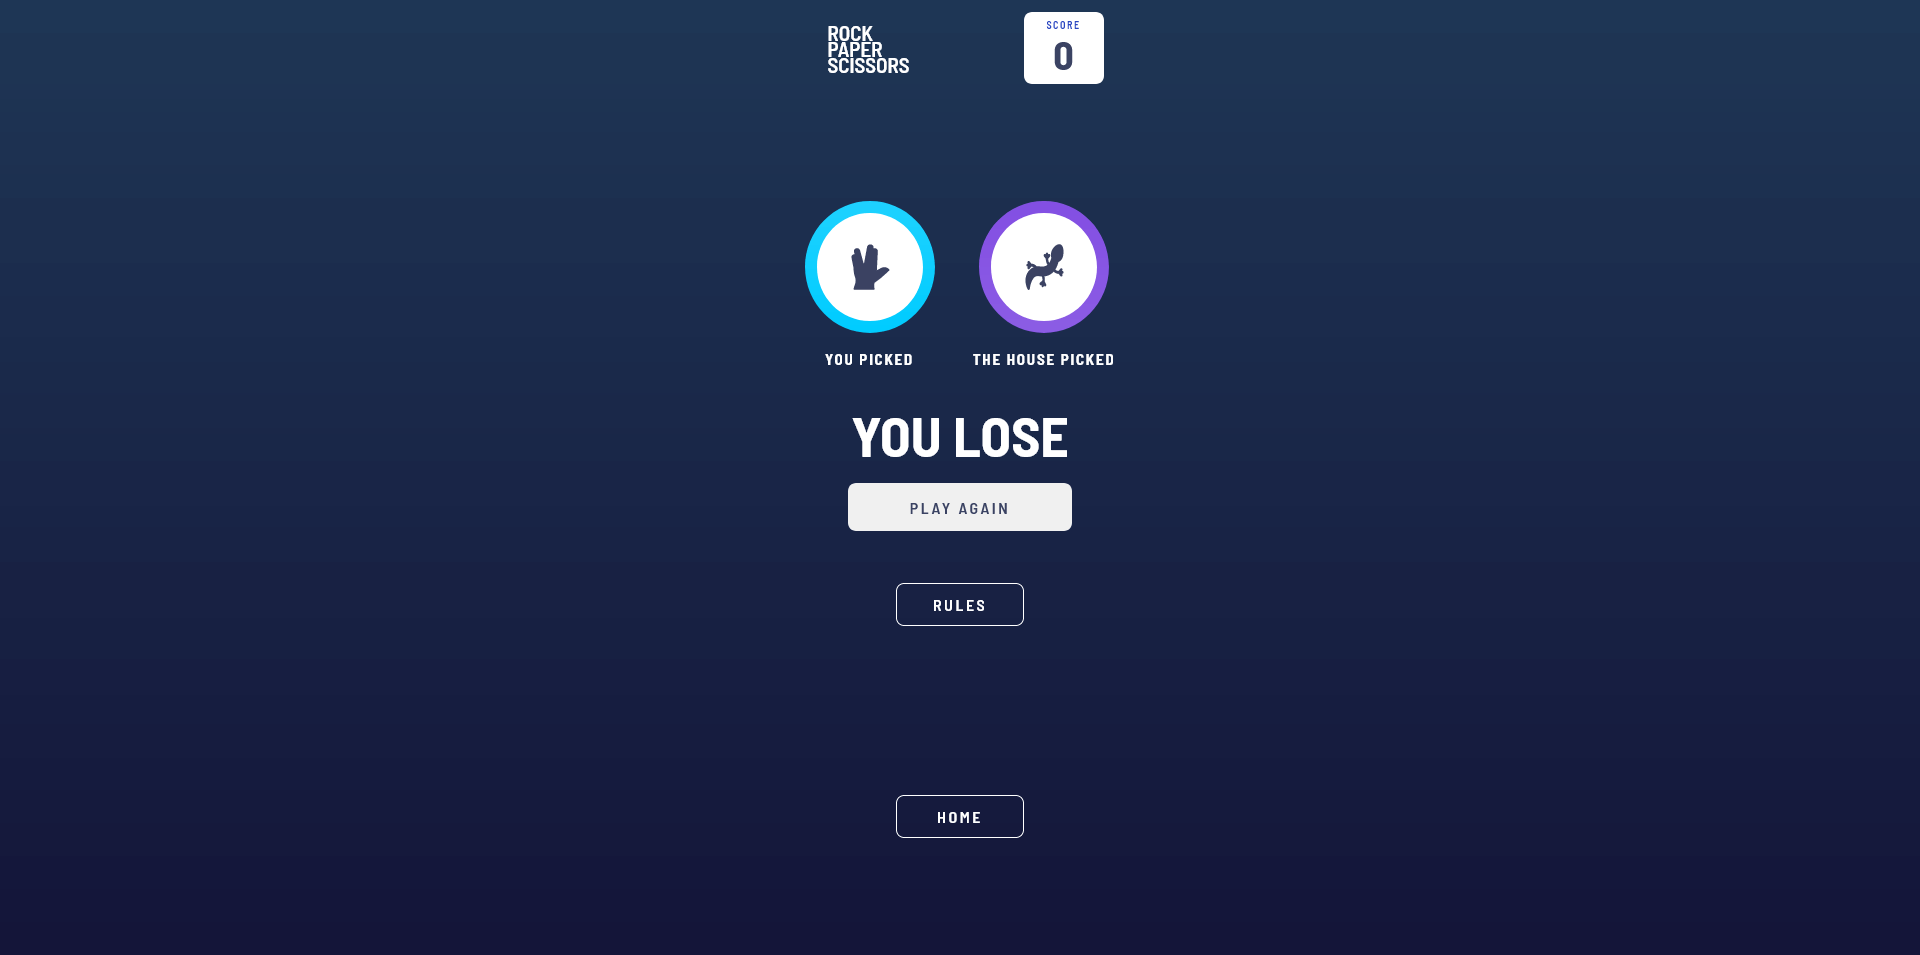
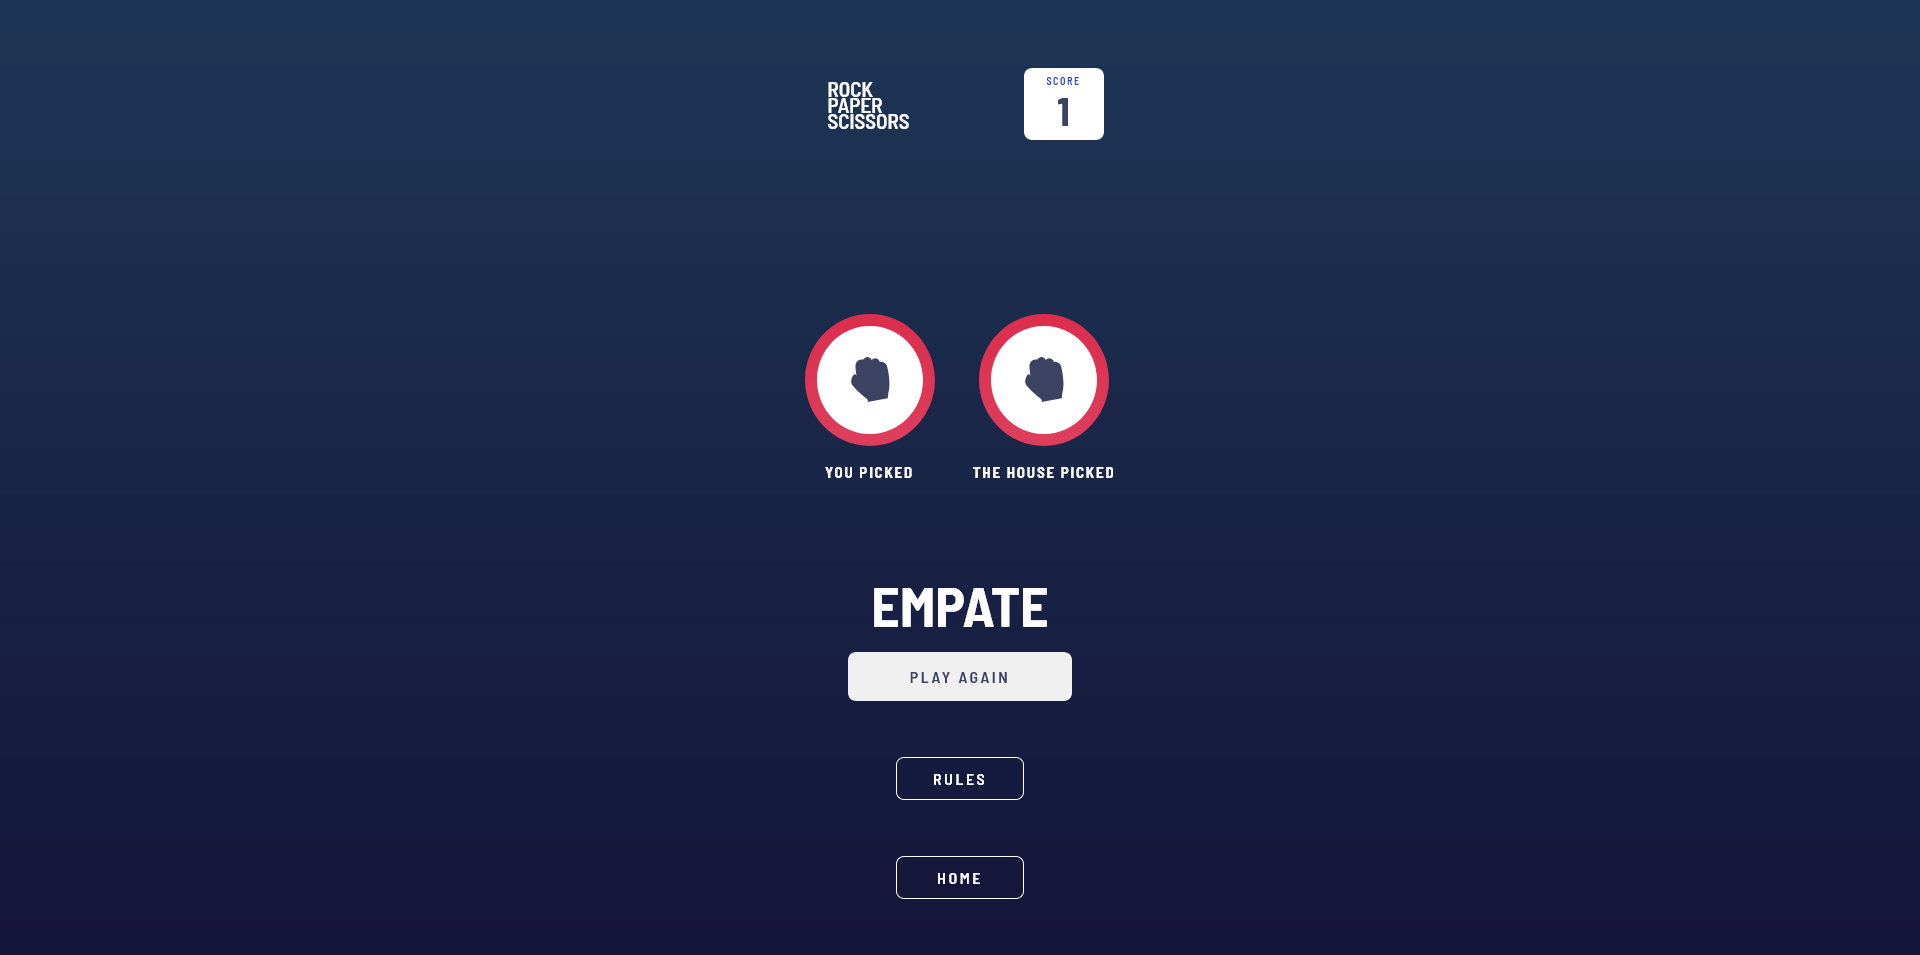
ultimos cambios realizados

diff --git a/js/game.js b/js/game.js
@@ -157,15 +157,11 @@ export const game = class Game {
                     funciones.removeTextNodes(this.player.childNodes)
                     funciones.removeTextNodes(this.bot.childNodes)
                     const botMove = this.botSelectCard()
+                    funciones.changeSrc(this.playerImg, `./images/icon-${name}.svg`)
+                    funciones.changeSrc(this.botImg, `./images/icon-${botMove}.svg`)
 
                     this.player.firstChild.setAttribute('class', `button ${name}`)
                     this.bot.firstChild.setAttribute('class', `button ${botMove}`)
-
-                    console.log(this.player.firstChild.classList);
-                    console.log(this.bot.firstChild.classList);
-                    
-                    funciones.changeSrc(this.playerImg, `./images/icon-${name}.svg`)
-                    funciones.changeSrc(this.botImg, `./images/icon-${botMove}.svg`)
 
                     this.animacion(this.player.firstChild, 100)
                     this.animacion(this.bot.firstChild, 2000)

diff --git a/css/index.scss b/css/index.scss
@@ -114,7 +114,7 @@ a {
   }
   .game {
     flex-direction: column;
-    justify-content: space-between;
+    justify-content: space-evenly;
     width: 19.4375em;
     margin: 0px auto;
     display: none;
@@ -233,14 +233,13 @@ a {
     .btn {
       @extend .title;
       font-size: 16px;
-      margin: auto;
+      margin:0px auto;
       display: block;
       width: 8em;
       background-color: transparent;
       padding: 0.6875em 2.25em;
       border: 1px solid white;
       border-radius: 8px;
-      margin-top: 52px;
     }
     .btn:hover{
       cursor: pointer;

diff --git a/css/index.css b/css/index.css
@@ -87,7 +87,7 @@ a {
 }
 .contenedor .game {
   flex-direction: column;
-  justify-content: space-between;
+  justify-content: space-evenly;
   width: 19.4375em;
   margin: 0px auto;
   display: none;
@@ -201,14 +201,13 @@ a {
 }
 .contenedor .game .btn {
   font-size: 16px;
-  margin: auto;
+  margin: 0px auto;
   display: block;
   width: 8em;
   background-color: transparent;
   padding: 0.6875em 2.25em;
   border: 1px solid white;
   border-radius: 8px;
-  margin-top: 52px;
 }
 .contenedor .game .btn:hover {
   cursor: pointer;

diff --git a/README-template.md b/README-template.md
@@ -1,5 +1,4 @@
-## Welcome to this project.
-Based on the well-known rock-paper-scissors game.
+## Welcome to this project based on the well-known rock-paper-scissors game.
 As the first project in my personal portfolio, I wanted to start with something simple but showing the basic technologies of a FrontEnd project.
 Using the basic technologies of any web project, HTML5, CSS3 AND JAVASCRIPT and the SASS preprocessor.
 
